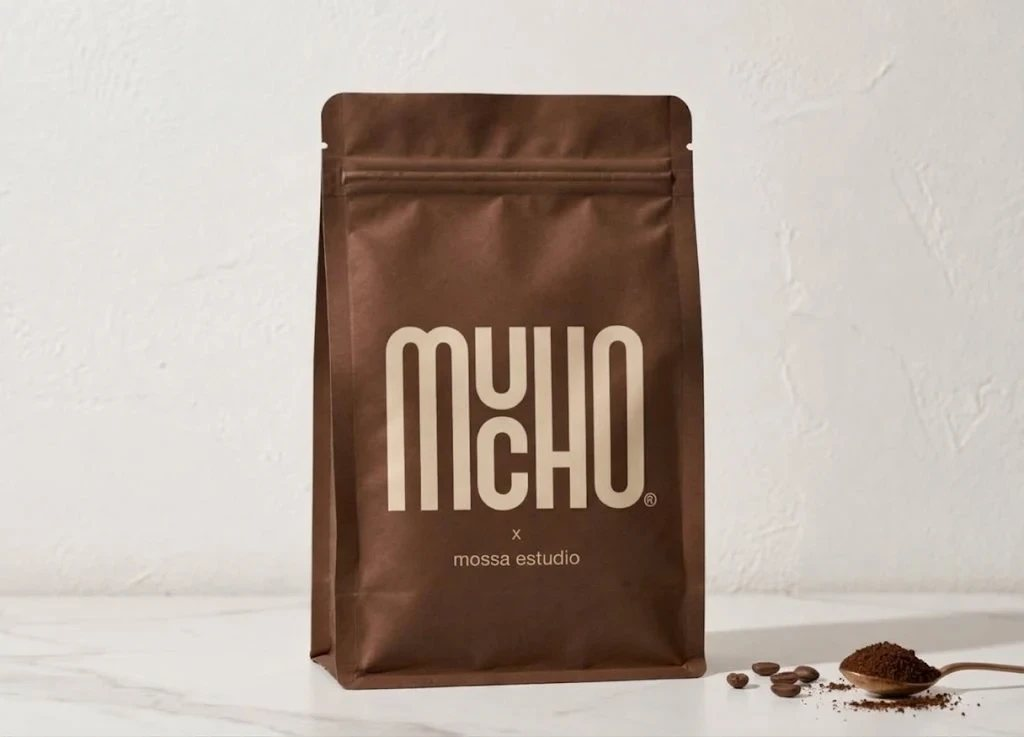
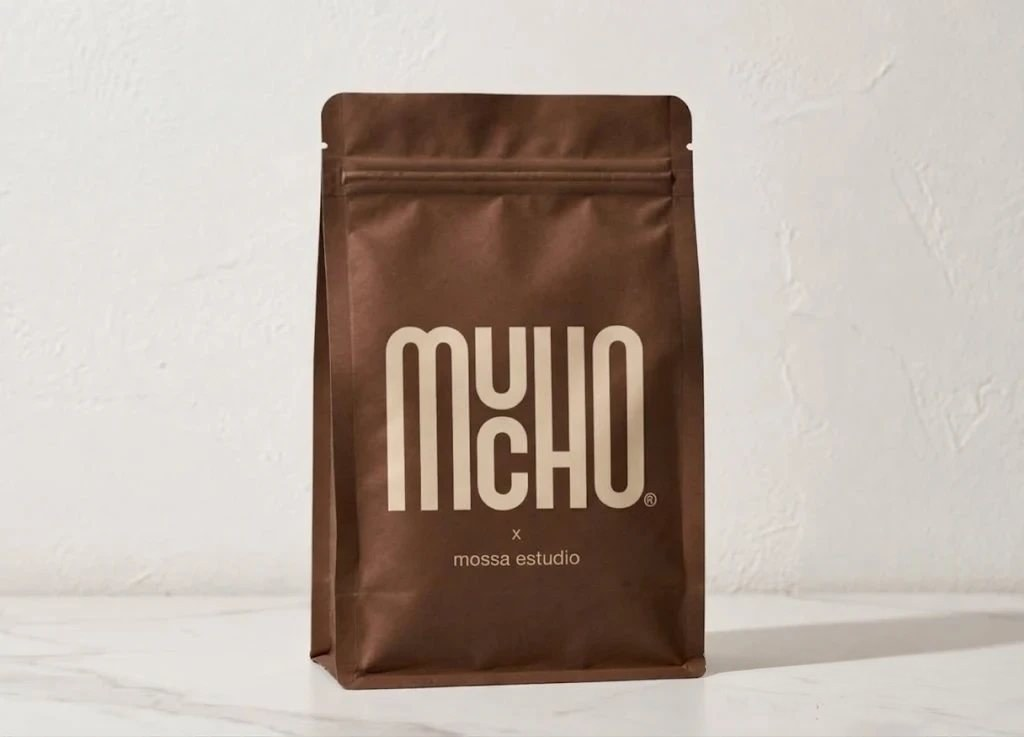
Tienda: fotos de las bolsas de café sin cucharas ni granos, como la bolsa crema
Claude-Session: https://claude.ai/code/session_01QVPnrtH6zVJsQi4tQ2tQ5w

Changed region(s): [[0.6875, 0.8738, 1.0, 0.9674]]

diff --git a/confirmacion.html b/confirmacion.html
@@ -10,7 +10,7 @@
   <link rel="preconnect" href="https://fonts.googleapis.com">
   <link rel="preconnect" href="https://fonts.gstatic.com" crossorigin>
   <link href="https://fonts.googleapis.com/css2?family=Barlow+Condensed:wght@400;500;600;700&family=Barlow+Semi+Condensed:ital,wght@0,400;0,500;0,600;1,400&family=Yellowtail&display=swap" rel="stylesheet">
-  <link rel="stylesheet" href="css/styles.css?v=20261119e">
+  <link rel="stylesheet" href="css/styles.css?v=20261119f">
 </head>
 <body class="pagina-checkout" data-checkout="confirmacion">
   <a class="saltar" href="#contenido">Saltar al contenido</a>
@@ -42,9 +42,9 @@
     <section class="confirmacion" id="confirmacion" aria-live="polite"></section>
   </main>
 
-  <script src="js/data.js?v=20261119e"></script>
-  <script src="js/main.js?v=20261119e"></script>
-  <script src="js/pedido.js?v=20261119e"></script>
-  <script src="js/checkout.js?v=20261119e"></script>
+  <script src="js/data.js?v=20261119f"></script>
+  <script src="js/main.js?v=20261119f"></script>
+  <script src="js/pedido.js?v=20261119f"></script>
+  <script src="js/checkout.js?v=20261119f"></script>
 </body>
 </html>

diff --git a/carrito.html b/carrito.html
@@ -10,7 +10,7 @@
   <link rel="preconnect" href="https://fonts.googleapis.com">
   <link rel="preconnect" href="https://fonts.gstatic.com" crossorigin>
   <link href="https://fonts.googleapis.com/css2?family=Barlow+Condensed:wght@400;500;600;700&family=Barlow+Semi+Condensed:ital,wght@0,400;0,500;0,600;1,400&family=Yellowtail&display=swap" rel="stylesheet">
-  <link rel="stylesheet" href="css/styles.css?v=20261119e">
+  <link rel="stylesheet" href="css/styles.css?v=20261119f">
 </head>
 <body class="pagina-checkout" data-checkout="carrito">
   <a class="saltar" href="#contenido">Saltar al contenido</a>
@@ -50,9 +50,9 @@
     </div>
   </main>
 
-  <script src="js/data.js?v=20261119e"></script>
-  <script src="js/main.js?v=20261119e"></script>
-  <script src="js/pedido.js?v=20261119e"></script>
-  <script src="js/checkout.js?v=20261119e"></script>
+  <script src="js/data.js?v=20261119f"></script>
+  <script src="js/main.js?v=20261119f"></script>
+  <script src="js/pedido.js?v=20261119f"></script>
+  <script src="js/checkout.js?v=20261119f"></script>
 </body>
 </html>

diff --git a/pago.html b/pago.html
@@ -10,7 +10,7 @@
   <link rel="preconnect" href="https://fonts.googleapis.com">
   <link rel="preconnect" href="https://fonts.gstatic.com" crossorigin>
   <link href="https://fonts.googleapis.com/css2?family=Barlow+Condensed:wght@400;500;600;700&family=Barlow+Semi+Condensed:ital,wght@0,400;0,500;0,600;1,400&family=Yellowtail&display=swap" rel="stylesheet">
-  <link rel="stylesheet" href="css/styles.css?v=20261119e">
+  <link rel="stylesheet" href="css/styles.css?v=20261119f">
 </head>
 <body class="pagina-checkout" data-checkout="pago">
   <a class="saltar" href="#contenido">Saltar al contenido</a>
@@ -85,9 +85,9 @@
     </div>
   </main>
 
-  <script src="js/data.js?v=20261119e"></script>
-  <script src="js/main.js?v=20261119e"></script>
-  <script src="js/pedido.js?v=20261119e"></script>
-  <script src="js/checkout.js?v=20261119e"></script>
+  <script src="js/data.js?v=20261119f"></script>
+  <script src="js/main.js?v=20261119f"></script>
+  <script src="js/pedido.js?v=20261119f"></script>
+  <script src="js/checkout.js?v=20261119f"></script>
 </body>
 </html>

diff --git a/tienda.html b/tienda.html
@@ -9,7 +9,7 @@
   <link rel="preconnect" href="https://fonts.googleapis.com">
   <link rel="preconnect" href="https://fonts.gstatic.com" crossorigin>
   <link href="https://fonts.googleapis.com/css2?family=Barlow+Condensed:wght@400;500;600;700&family=Barlow+Semi+Condensed:ital,wght@0,400;0,500;0,600;1,400&family=Yellowtail&display=swap" rel="stylesheet">
-  <link rel="stylesheet" href="css/styles.css?v=20261119e">
+  <link rel="stylesheet" href="css/styles.css?v=20261119f">
 </head>
 <body class="pagina-tienda">
   <a class="saltar" href="#contenido">Saltar al contenido</a>
@@ -120,9 +120,9 @@
     WhatsApp
   </a>
 
-  <script src="js/data.js?v=20261119e"></script>
-  <script src="js/main.js?v=20261119e"></script>
-  <script src="js/pedido.js?v=20261119e"></script>
-  <script src="js/tienda.js?v=20261119e"></script>
+  <script src="js/data.js?v=20261119f"></script>
+  <script src="js/main.js?v=20261119f"></script>
+  <script src="js/pedido.js?v=20261119f"></script>
+  <script src="js/tienda.js?v=20261119f"></script>
 </body>
 </html>

diff --git a/menu.html b/menu.html
@@ -9,7 +9,7 @@
   <link rel="preconnect" href="https://fonts.googleapis.com">
   <link rel="preconnect" href="https://fonts.gstatic.com" crossorigin>
   <link href="https://fonts.googleapis.com/css2?family=Barlow+Condensed:wght@400;500;600;700&family=Barlow+Semi+Condensed:ital,wght@0,400;0,500;0,600;1,400&family=Yellowtail&display=swap" rel="stylesheet">
-  <link rel="stylesheet" href="css/styles.css?v=20261119e">
+  <link rel="stylesheet" href="css/styles.css?v=20261119f">
 </head>
 <body class="pagina-menu">
   <a class="saltar" href="#contenido">Saltar al contenido</a>
@@ -183,10 +183,10 @@
     WhatsApp
   </a>
 
-  <script src="js/data.js?v=20261119e"></script>
-  <script src="js/main.js?v=20261119e"></script>
-  <script src="js/pedido.js?v=20261119e"></script>
-  <script src="js/menu.js?v=20261119e"></script>
+  <script src="js/data.js?v=20261119f"></script>
+  <script src="js/main.js?v=20261119f"></script>
+  <script src="js/pedido.js?v=20261119f"></script>
+  <script src="js/menu.js?v=20261119f"></script>
 
 </body>
 </html>

diff --git a/index.html b/index.html
@@ -9,7 +9,7 @@
   <link rel="preconnect" href="https://fonts.googleapis.com">
   <link rel="preconnect" href="https://fonts.gstatic.com" crossorigin>
   <link href="https://fonts.googleapis.com/css2?family=Barlow+Condensed:wght@400;500;600;700&family=Barlow+Semi+Condensed:ital,wght@0,400;0,500;0,600;1,400&family=Yellowtail&display=swap" rel="stylesheet">
-  <link rel="stylesheet" href="css/styles.css?v=20261119e">
+  <link rel="stylesheet" href="css/styles.css?v=20261119f">
 </head>
 <body class="home fondo-scroll" data-fondo="crema">
   <a class="saltar" href="#contenido">Saltar al contenido</a>
@@ -229,9 +229,9 @@
     WhatsApp
   </a>
 
-  <script src="js/data.js?v=20261119e"></script>
-  <script src="js/main.js?v=20261119e"></script>
-  <script src="js/pedido.js?v=20261119e"></script>
+  <script src="js/data.js?v=20261119f"></script>
+  <script src="js/main.js?v=20261119f"></script>
+  <script src="js/pedido.js?v=20261119f"></script>
 
 </body>
 </html>

diff --git a/el-lugar.html b/el-lugar.html
@@ -9,7 +9,7 @@
   <link rel="preconnect" href="https://fonts.googleapis.com">
   <link rel="preconnect" href="https://fonts.gstatic.com" crossorigin>
   <link href="https://fonts.googleapis.com/css2?family=Barlow+Condensed:wght@400;500;600;700&family=Barlow+Semi+Condensed:ital,wght@0,400;0,500;0,600;1,400&family=Yellowtail&display=swap" rel="stylesheet">
-  <link rel="stylesheet" href="css/styles.css?v=20261119e">
+  <link rel="stylesheet" href="css/styles.css?v=20261119f">
 </head>
 <body class="fondo-scroll" data-fondo="crema">
   <a class="saltar" href="#contenido">Saltar al contenido</a>
@@ -184,9 +184,9 @@
     WhatsApp
   </a>
 
-  <script src="js/data.js?v=20261119e"></script>
-  <script src="js/main.js?v=20261119e"></script>
-  <script src="js/pedido.js?v=20261119e"></script>
+  <script src="js/data.js?v=20261119f"></script>
+  <script src="js/main.js?v=20261119f"></script>
+  <script src="js/pedido.js?v=20261119f"></script>
 
 </body>
 </html>

diff --git a/contacto.html b/contacto.html
@@ -9,7 +9,7 @@
   <link rel="preconnect" href="https://fonts.googleapis.com">
   <link rel="preconnect" href="https://fonts.gstatic.com" crossorigin>
   <link href="https://fonts.googleapis.com/css2?family=Barlow+Condensed:wght@400;500;600;700&family=Barlow+Semi+Condensed:ital,wght@0,400;0,500;0,600;1,400&family=Yellowtail&display=swap" rel="stylesheet">
-  <link rel="stylesheet" href="css/styles.css?v=20261119e">
+  <link rel="stylesheet" href="css/styles.css?v=20261119f">
 </head>
 <body class="pagina-contacto">
   <a class="saltar" href="#contenido">Saltar al contenido</a>
@@ -131,9 +131,9 @@
     WhatsApp
   </a>
 
-  <script src="js/data.js?v=20261119e"></script>
-  <script src="js/main.js?v=20261119e"></script>
-  <script src="js/pedido.js?v=20261119e"></script>
+  <script src="js/data.js?v=20261119f"></script>
+  <script src="js/main.js?v=20261119f"></script>
+  <script src="js/pedido.js?v=20261119f"></script>
 
 </body>
 </html>

diff --git a/js/data.js b/js/data.js
@@ -224,7 +224,7 @@ function etiquetasDieta(dietas) {
 
 // Foto del ítem o, si todavía no hay, un espacio reservado con su nombre
 // Subí este número cada vez que se reemplace o edite una foto, para que el navegador no muestre la vieja
-const VERSION_FOTOS = 7;
+const VERSION_FOTOS = 8;
 
 function fotoHTML(foto, alt, clase = '', posicion = '', zoom = 1) {
   const reglas = [];
